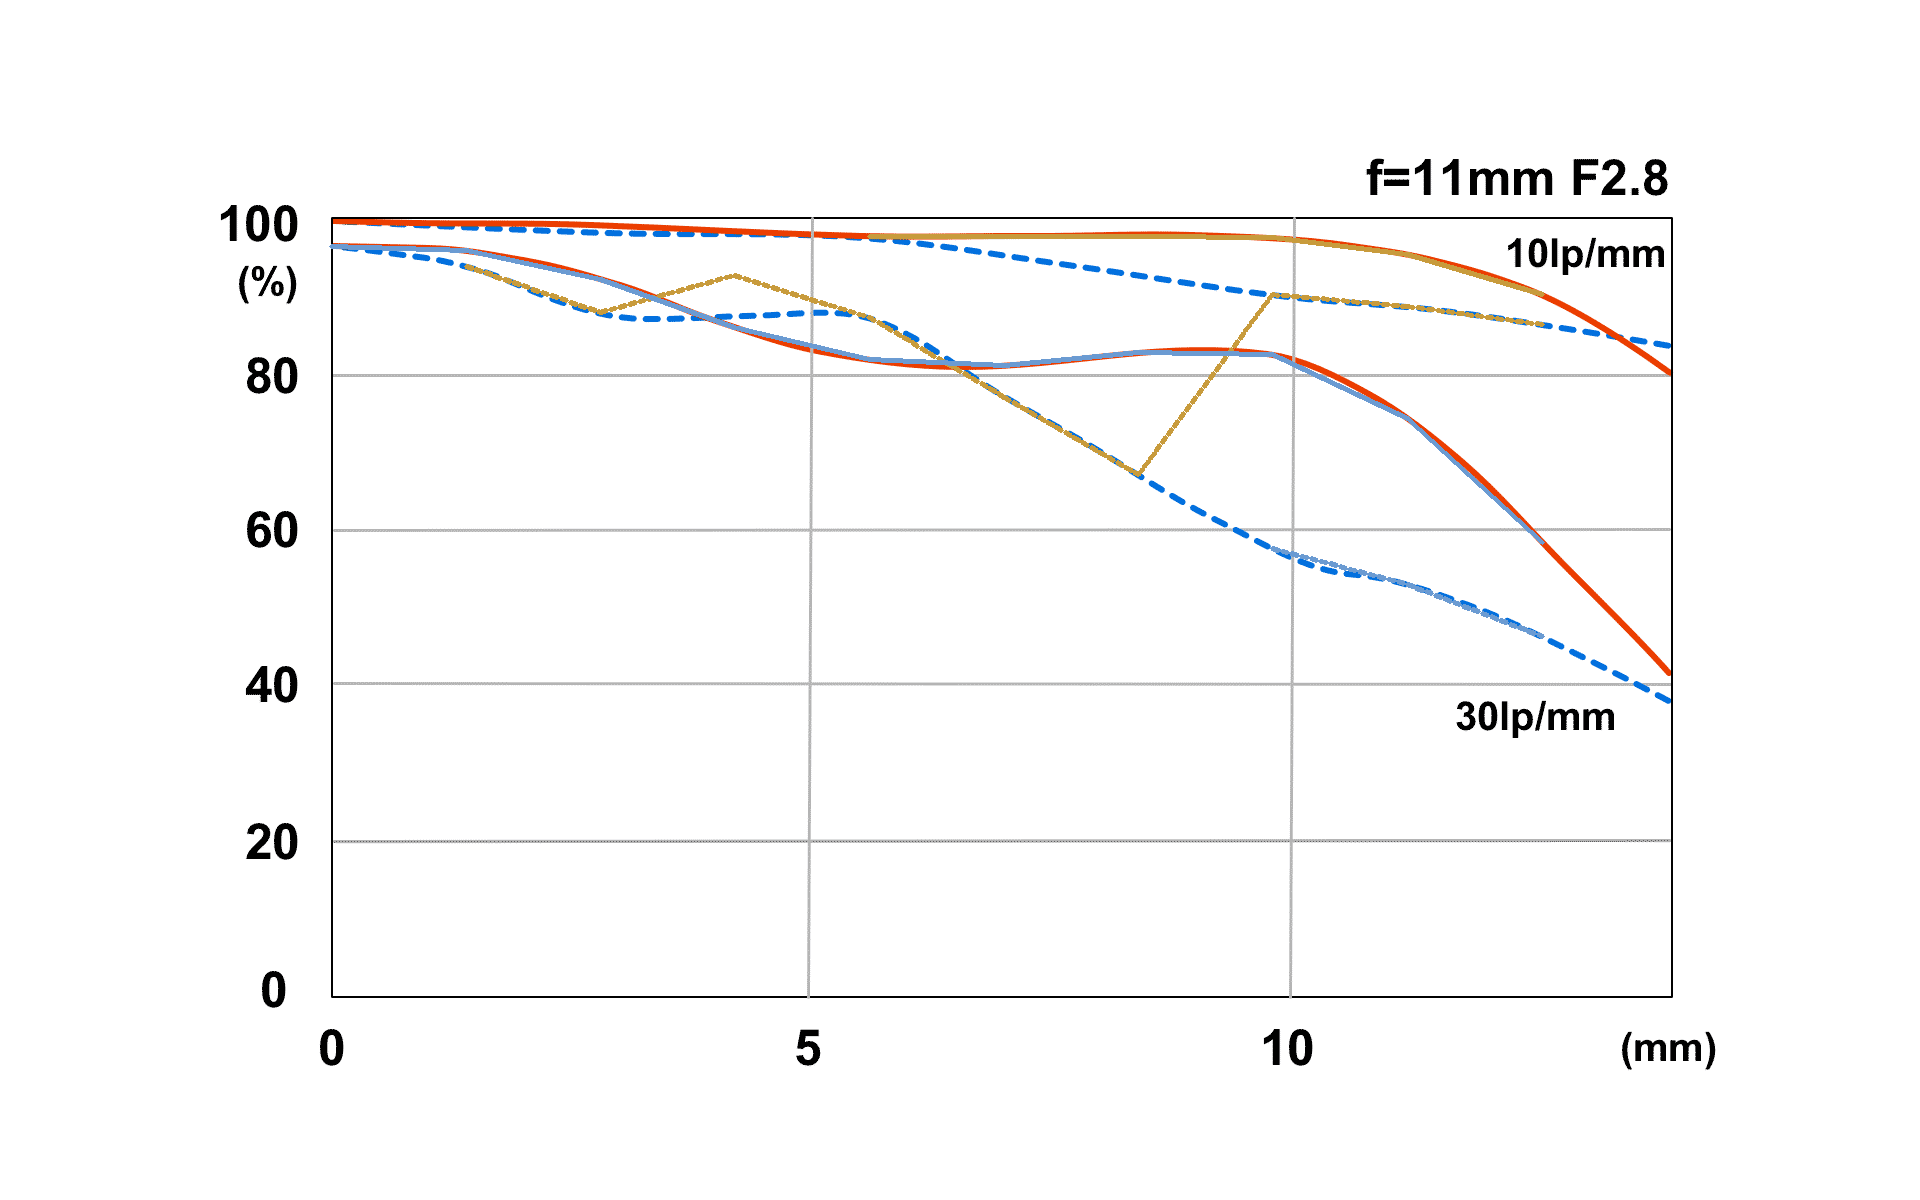
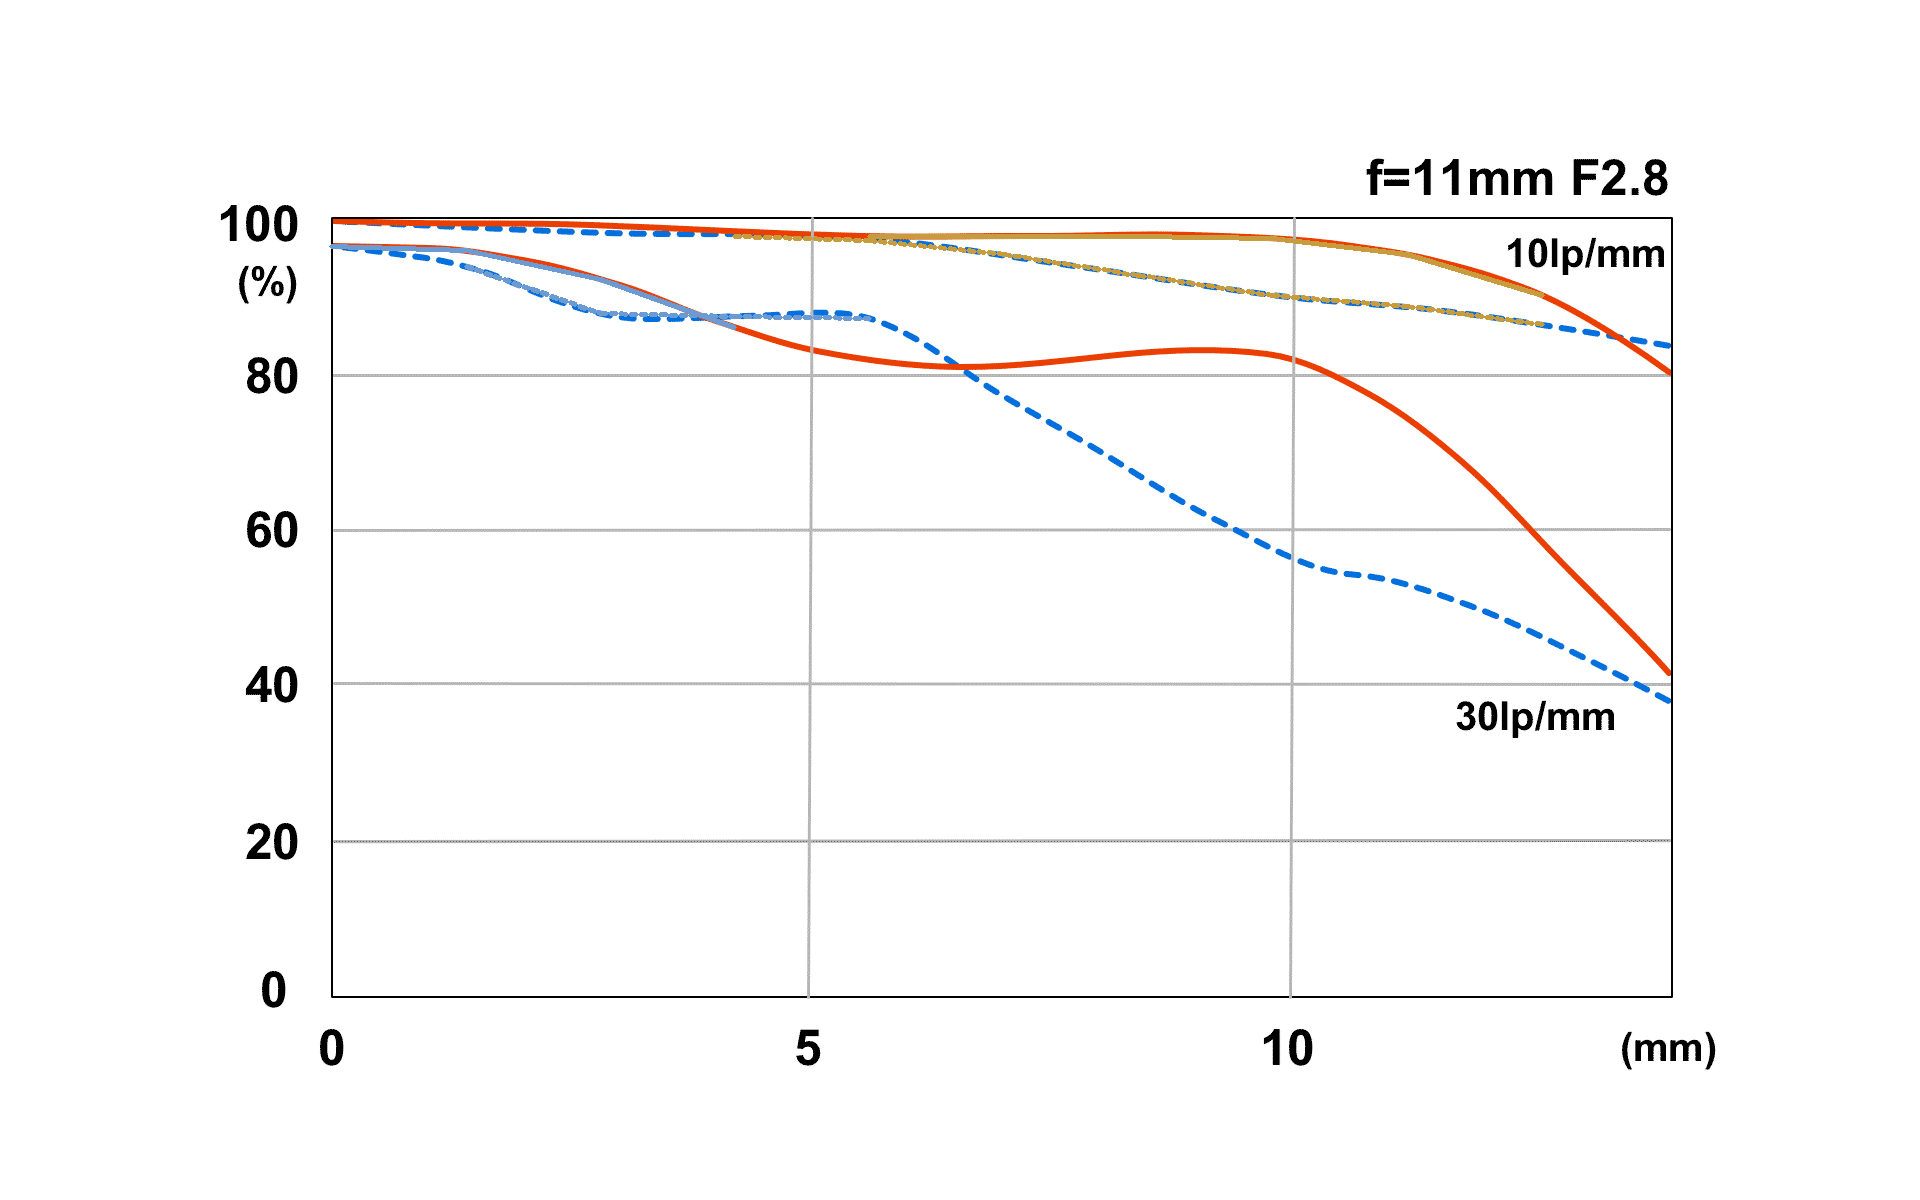
fix(mtfdigitizer): replace CC-rank with per-column ridge tracking for Tokina zooms
The CC-rank dispatch added in the previous commit looked plausible on
the calibration aggregate but extracted bad values on the 11mm panel.
A pipeline-stage debug script proved the root cause: the wide-close +
CC-grouping approach fundamentally cannot separate the upper and
lower blue dashed curves when their dash fragments interleave in
y-space across the field. On the 11mm panel, blue clustered into
17 upper CCs + 1 lower CC, lumping 10M and the steep portion of 30M
into the same "upper" bucket.

The correct dispatch for this chart geometry is per-column ridge
tracking: for every x column inside the plot box, find the topmost
mask run (= upper curve point) and the bottommost run (= lower curve
point). Works regardless of how dashed fragments distribute in y,
provided the two curves of one color never cross within a column —
which is a property of the chart design, not the lens.

Changes:

1. Added `ridge_tracks_for_hue` in `pipeline/ridge.py` — per-hue
   2-track variant of the existing 4-track ridge tracker used by
   Viltrox. Reuses the existing `_extract_ridge_points`,
   `_cluster_into_tracks`, `_select_top_n_tracks`, `_rasterize`
   helpers; just adds the per-hue orchestration on top.

2. Added `PER_COLUMN_RIDGE` to the `HueMeaning` enum in
   `profiles/types.py` and the matching dispatch branch in
   `pipeline/dispatch.py`. Replaces the short-lived CC-rank-by-hue
   branch (which never shipped working values).
[…]

diff --git a/src/data/mtf-readings.ts b/src/data/mtf-readings.ts
@@ -2264,65 +2264,65 @@ const mtfReadings: Record<string, MtfData> = {
           {
             position: 1.4,
             contrast10S: null,
-            contrast10M: 0.96,
+            contrast10M: null,
             resolution30S: 0.98,
-            resolution30M: null,
+            resolution30M: 0.96,
           },
           {
             position: 2.8,
             contrast10S: null,
-            contrast10M: 0.9,
+            contrast10M: null,
             resolution30S: 0.94,
-            resolution30M: null,
+            resolution30M: 0.9,
           },
           {
             position: 4.2,
             contrast10S: null,
-            contrast10M: 0.95,
+            contrast10M: 1,
             resolution30S: 0.88,
-            resolution30M: null,
+            resolution30M: 0.89,
           },
           {
             position: 5.6,
             contrast10S: 1,
-            contrast10M: null,
-            resolution30S: 0.84,
-            resolution30M: null,
+            contrast10M: 0.99,
+            resolution30S: null,
+            resolution30M: 0.89,
           },
           {
             position: 7,
             contrast10S: 1,
-            contrast10M: null,
-            resolution30S: 0.83,
+            contrast10M: 0.97,
+            resolution30S: null,
             resolution30M: null,
           },
           {
             position: 8.4,
             contrast10S: 1,
-            contrast10M: null,
-            resolution30S: 0.85,
+            contrast10M: 0.95,
+            resolution30S: null,
             resolution30M: null,
           },
           {
             position: 9.8,
             contrast10S: 1,
             contrast10M: 0.92,
-            resolution30S: 0.84,
-            resolution30M: 0.59,
+            resolution30S: null,
+            resolution30M: null,
           },
           {
             position: 11.2,
             contrast10S: 0.98,
             contrast10M: 0.91,
-            resolution30S: 0.76,
-            resolution30M: 0.54,
+            resolution30S: null,
+            resolution30M: null,
           },
           {
             position: 12.6,
             contrast10S: 0.92,
             contrast10M: 0.88,
-            resolution30S: 0.6,
-            resolution30M: 0.47,
+            resolution30S: null,
+            resolution30M: null,
           },
         ],
       },
@@ -2341,7 +2341,7 @@ const mtfReadings: Record<string, MtfData> = {
             contrast10S: null,
             contrast10M: null,
             resolution30S: 0.91,
-            resolution30M: 0.89,
+            resolution30M: null,
           },
           {
             position: 2.8,
@@ -2369,35 +2369,42 @@ const mtfReadings: Record<string, MtfData> = {
             contrast10S: 0.99,
             contrast10M: 0.98,
             resolution30S: 0.74,
-            resolution30M: 0.71,
+            resolution30M: null,
           },
           {
             position: 8.4,
             contrast10S: 0.98,
             contrast10M: 0.95,
             resolution30S: 0.66,
-            resolution30M: 0.61,
+            resolution30M: null,
           },
           {
             position: 9.8,
             contrast10S: 0.95,
             contrast10M: 0.93,
             resolution30S: 0.55,
-            resolution30M: 0.51,
+            resolution30M: null,
           },
           {
             position: 11.2,
             contrast10S: 0.91,
             contrast10M: 0.9,
             resolution30S: 0.49,
-            resolution30M: 0.42,
+            resolution30M: null,
           },
           {
             position: 12.6,
             contrast10S: 0.83,
             contrast10M: 0.88,
             resolution30S: 0.48,
-            resolution30M: 0.35,
+            resolution30M: null,
+          },
+          {
+            position: 14,
+            contrast10S: null,
+            contrast10M: null,
+            resolution30S: 0.43,
+            resolution30M: null,
           },
         ],
       },

diff --git a/tools/mtfdigitizer/pipeline/dispatch.py b/tools/mtfdigitizer/pipeline/dispatch.py
@@ -22,13 +22,14 @@ Out-of-band combinations raise `NotImplementedError` — generalizing PR
   S/M (named "S-*"/"M-*"); within each hue, `y_band_split` separates the
   upper frequency from the lower. Works when the two frequencies sit in
   cleanly separable y-bands.
-- `(HUE_IS_CURVE, CC_RANK_BY_MEAN_Y)` — Tokina wide-zoom variant where the
+- `(HUE_IS_CURVE, PER_COLUMN_RIDGE)` — Tokina wide-zoom variant where the
   two frequencies overlap in y near center (30 lp/mm starts at OTF ~0.90
-  while 10 lp/mm starts at 1.00; their y-bands intersect). Per hue, find
-  connected components, rank by mean-y; the upper CC is the upper
-  frequency, the lower CC is the lower frequency. Works because within
-  one color the two curves are spatially separate (they don't cross),
-  even when their OTF values are close. No `y_band_split` required.
+  while 10 lp/mm starts at 1.00; their y-bands intersect AND dashed-line
+  fragments of the two curves interleave in y across the field, so any
+  CC-based partition misclassifies). Per-column ridge tracking handles
+  arbitrary curve overlap as long as the two curves of one color never
+  cross within a column: the upper run per column = upper frequency,
+  the lower run = lower frequency. Uses `ridge.ridge_tracks_for_hue`.
 - `(SPLIT_BY_DASH, Y_BAND_IS_FREQUENCY)` — Viltrox B&W dialect: a single
   neutral mask is split by `y_band_split` into frequency groups, then by
   CC-width within each group for S/M.
@@ -54,7 +55,7 @@ import numpy as np
 
 from ..profiles.types import MtfProfile
 from .masks import masks_by_curve_name
-from .ridge import ridge_tracks_to_fields
+from .ridge import ridge_tracks_for_hue, ridge_tracks_to_fields
 from .skeleton import close_and_skeletonize
 from .split import split_sm_by_cc_width
 from .types import PlotBox
@@ -297,44 +298,27 @@ def field_skeletons(
                     out[field] = close_and_skeletonize(band_mask)
     elif (
         profile.style_axis == "HUE_IS_CURVE"
-        and profile.hue_meaning == "CC_RANK_BY_MEAN_Y"
+        and profile.hue_meaning == "PER_COLUMN_RIDGE"
     ):
         # Each hue carries S or M (same naming as SAGITTAL_MERIDIONAL).
-        # Two curves per hue at different y positions. Use a wide
-        # horizontal close to bridge dashed-line gaps into ONE CC per
-        # curve, then split components by mean-y (largest y-gap) into
-        # upper-frequency and lower-frequency clusters.
-        #
-        # The default `close_and_skeletonize` uses a 7px kernel that's
-        # enough for Sigma/Samyang dashes but too small for the Tokina
-        # wide-zoom blue dashes (~20-30px gaps). With a small kernel
-        # each dash becomes its own CC and the largest-gap heuristic
-        # misclassifies adjacent dashes of the SAME curve as a band
-        # boundary. A wider kernel (~31px ≈ 1.6% of plot width) merges
-        # the dashes within one curve while leaving the gap between the
-        # two curves intact.
+        # Within each hue, run per-column ridge tracking: for every x
+        # column the topmost run is the upper-frequency point, the
+        # bottommost run is the lower-frequency point. The greedy
+        # cluster-by-tracks step in `ridge.py` then assembles per-column
+        # points into two coherent tracks per hue. Works for charts where
+        # the two curves of one color never cross spatially, regardless
+        # of whether their dashed fragments interleave in y-space.
+        if plot_box is None:
+            raise ValueError(
+                "PER_COLUMN_RIDGE profile requires plot_box for per-column scanning"
+            )
         upper_freq, lower_freq = profile.frequencies_lpmm[0], profile.frequencies_lpmm[1]
-        wide_kernel = cv2.getStructuringElement(cv2.MORPH_RECT, (31, 1))
         for hue_name, mask in curve_masks.items():
             sm = parse_sagittal_meridional_name(hue_name)
-            closed = cv2.morphologyEx(
-                mask.astype(np.uint8), cv2.MORPH_CLOSE, wide_kernel
+            hue_fields = ridge_tracks_for_hue(
+                mask, plot_box, sm, upper_freq=upper_freq, lower_freq=lower_freq
             )
-            from skimage.morphology import skeletonize as _skeletonize
-            skeleton = _skeletonize(closed.astype(bool)).astype(np.uint8)
-            components = _component_masks_with_mean_y(skeleton)
-            upper_masks, lower_masks = _split_components_at_largest_y_gap(components)
-            for freq, cluster in (
-                (upper_freq, upper_masks),
-                (lower_freq, lower_masks),
-            ):
-                field = curve_field(freq, sm)
-                if field is None or not cluster:
-                    continue
-                merged = cluster[0].copy()
-                for m in cluster[1:]:
-                    merged = merged | m
-                out[field] = merged
+            out.update(hue_fields)
     elif (
         profile.style_axis == "SPLIT_BY_DASH"
         and profile.hue_meaning == "Y_BAND_IS_FREQUENCY"

diff --git a/tools/mtfdigitizer/profiles/declared.py b/tools/mtfdigitizer/profiles/declared.py
@@ -117,33 +117,35 @@ TOKINA_2COLOR_FREQUENCY: MtfProfile = MtfProfile(
 )
 
 
-# Tokina 2-color frequency-by-color, CC-rank variant: same hue palette
-# as `TOKINA_2COLOR_FREQUENCY` but dispatches by connected-component
-# rank instead of a fixed y_band_split.
+# Tokina 2-color frequency-by-color, ridge-tracking variant: same hue
+# palette as `TOKINA_2COLOR_FREQUENCY` but dispatches by per-column
+# ridge tracking instead of y_band_split.
 #
-# Used by the 11-18mm wide-zoom panels where the 30 lp/mm pair starts at
-# OTF ~0.90 (vs 1.00 for 10 lp/mm) — the two frequencies' y-bands
-# intersect near center, so any fixed y_band_split misclassifies one
-# region. The CC-rank dispatch makes no y-position assumption: per hue
-# (red, blue) it groups skeleton components into two clusters at the
-# largest y-gap and assigns upper = 10 lp/mm, lower = 30 lp/mm. Works
-# because the two curves of one color never cross spatially even when
-# their OTF values overlap.
+# Used by the 11-18mm wide-zoom panels where the 30 lp/mm pair starts
+# at OTF ~0.90 (vs 1.00 for 10 lp/mm). Both fixed-y splits AND CC-rank
+# fail here: the two pairs' y-bands intersect near center, dashed-line
+# fragments of 10M and 30M interleave in y across the field, and any
+# CC-by-rank-of-mean-y groups dashes from both curves together. Per-
+# column ridge tracking handles this geometry: scan each x column and
+# pick the topmost mask run as the upper-frequency point, the
+# bottommost as the lower-frequency point. Works as long as the two
+# curves of one color never cross spatially (which they don't on this
+# chart family).
 #
 # Same palette/saturation/value bounds as the y-band variant; only the
 # dispatch differs.
 TOKINA_2COLOR_FREQUENCY_CC_RANK: MtfProfile = MtfProfile(
-    name="tokina-2color-frequency-cc-rank",
+    name="tokina-2color-frequency-per-column-ridge",
     hues=(
         HueRange(name="S-red", h_lo=0, h_hi=12, s_min=80, v_min=120),
         HueRange(name="S-red", h_lo=168, h_hi=179, s_min=80, v_min=120),
         HueRange(name="M-blue", h_lo=90, h_hi=115, s_min=80, v_min=120),
     ),
     style_axis="HUE_IS_CURVE",
-    hue_meaning="CC_RANK_BY_MEAN_Y",
+    hue_meaning="PER_COLUMN_RIDGE",
     frequencies_lpmm=(10, 30),
     auto_suggestable=False,
-    notes="Tokina wide-zoom variant: per-hue CC-rank assigns upper CC = 10 lp/mm, lower CC = 30 lp/mm; no y_band_split (handles 11-18mm wide-zoom curve geometry where 10 and 30 bands intersect)",
+    notes="Tokina wide-zoom variant: per-hue, per-column ridge tracking; topmost run per column = 10 lp/mm, bottommost = 30 lp/mm; handles dashed-line interleaving that defeats CC-rank",
 )
 
 

diff --git a/tools/mtfdigitizer/pipeline/ridge.py b/tools/mtfdigitizer/pipeline/ridge.py
@@ -319,6 +319,47 @@ def _rasterize(track: Track, shape: tuple[int, int]) -> np.ndarray:
     return sk
 
 
+def ridge_tracks_for_hue(
+    mask: np.ndarray,
+    plot_box: PlotBox,
+    sm: str,
+    upper_freq: int,
+    lower_freq: int,
+) -> dict[str, np.ndarray]:
+    """Per-hue, 2-curve variant: returns one track per (freq, sm).
+
+    Used by the Tokina wide-zoom dispatch where each hue (red, blue)
+    encodes S or M (via the profile's hue name) and within the hue the
+    two curves at different y-positions encode the two frequencies.
+    Upper track in y → `upper_freq`; lower track → `lower_freq`. The
+    sm parameter is taken from the hue name (S-red → 'S', M-blue → 'M').
+
+    Distinct from `ridge_tracks_to_fields` (which expects 4 curves in
+    one neutral mask and recovers both freq AND sm from track ranking).
+    """
+    from .dispatch import curve_field  # imported here to avoid module cycle
+
+    cleaned = _strip_chrome(mask, plot_box)
+    points = _extract_ridge_points(cleaned, plot_box)
+    tracks = _cluster_into_tracks(points)
+    kept = _select_top_n_tracks(tracks, n=2, plot_width=plot_box.width + 1)
+
+    out: dict[str, np.ndarray] = {}
+    if not kept:
+        return out
+    by_y = sorted(kept, key=lambda t: t.mean_y)
+    upper_track = by_y[0]
+    field = curve_field(upper_freq, sm)
+    if field is not None:
+        out[field] = _rasterize(upper_track, mask.shape)
+    if len(by_y) > 1:
+        lower_track = by_y[1]
+        field = curve_field(lower_freq, sm)
+        if field is not None:
+            out[field] = _rasterize(lower_track, mask.shape)
+    return out
+
+
 def ridge_tracks_to_fields(
     mask: np.ndarray,
     plot_box: PlotBox,

diff --git a/tools/mtfdigitizer/profiles/types.py b/tools/mtfdigitizer/profiles/types.py
@@ -55,6 +55,17 @@ StyleAxis = Literal["SPLIT_BY_DASH", "HUE_IS_CURVE"]
 #                             frequency; within each pair the higher-
 #                             coverage track is solid (S by default).
 #                             See `pipeline/ridge.py`.
+# - `PER_COLUMN_RIDGE`      — per-hue variant of `RIDGE_TRACKING`. Each
+#                             hue carries S or M (named "S-*"/"M-*"),
+#                             and within the hue the two curves at
+#                             different y-positions are separated by
+#                             ridge tracking per-column. Upper track =
+#                             upper frequency, lower track = lower
+#                             frequency. Used by the Tokina wide-zoom
+#                             panels where the dashed-curve fragments
+#                             interleave in y-space and CC-rank
+#                             cannot separate them, but the two curves
+#                             of one color never cross within a column.
 HueMeaning = Literal[
     "FREQUENCY",
     "SAGITTAL_MERIDIONAL",
@@ -62,6 +73,7 @@ HueMeaning = Literal[
     "Y_BAND_IS_FREQUENCY",
     "CC_RANK_BY_MEAN_Y",
     "RIDGE_TRACKING",
+    "PER_COLUMN_RIDGE",
 ]
 
 

diff --git a/tools/mtfdigitizer/tests/test_profiles.py b/tools/mtfdigitizer/tests/test_profiles.py
@@ -67,7 +67,7 @@ def test_declared_profiles_cover_in_band_families() -> None:
         "samyang-4color-all-solid",
         "7artisans-2color-samecolor-dashed",
         "tokina-2color-frequency",
-        "tokina-2color-frequency-cc-rank",
+        "tokina-2color-frequency-per-column-ridge",
         "viltrox-bw-dashed-f1.2",
     }
 
